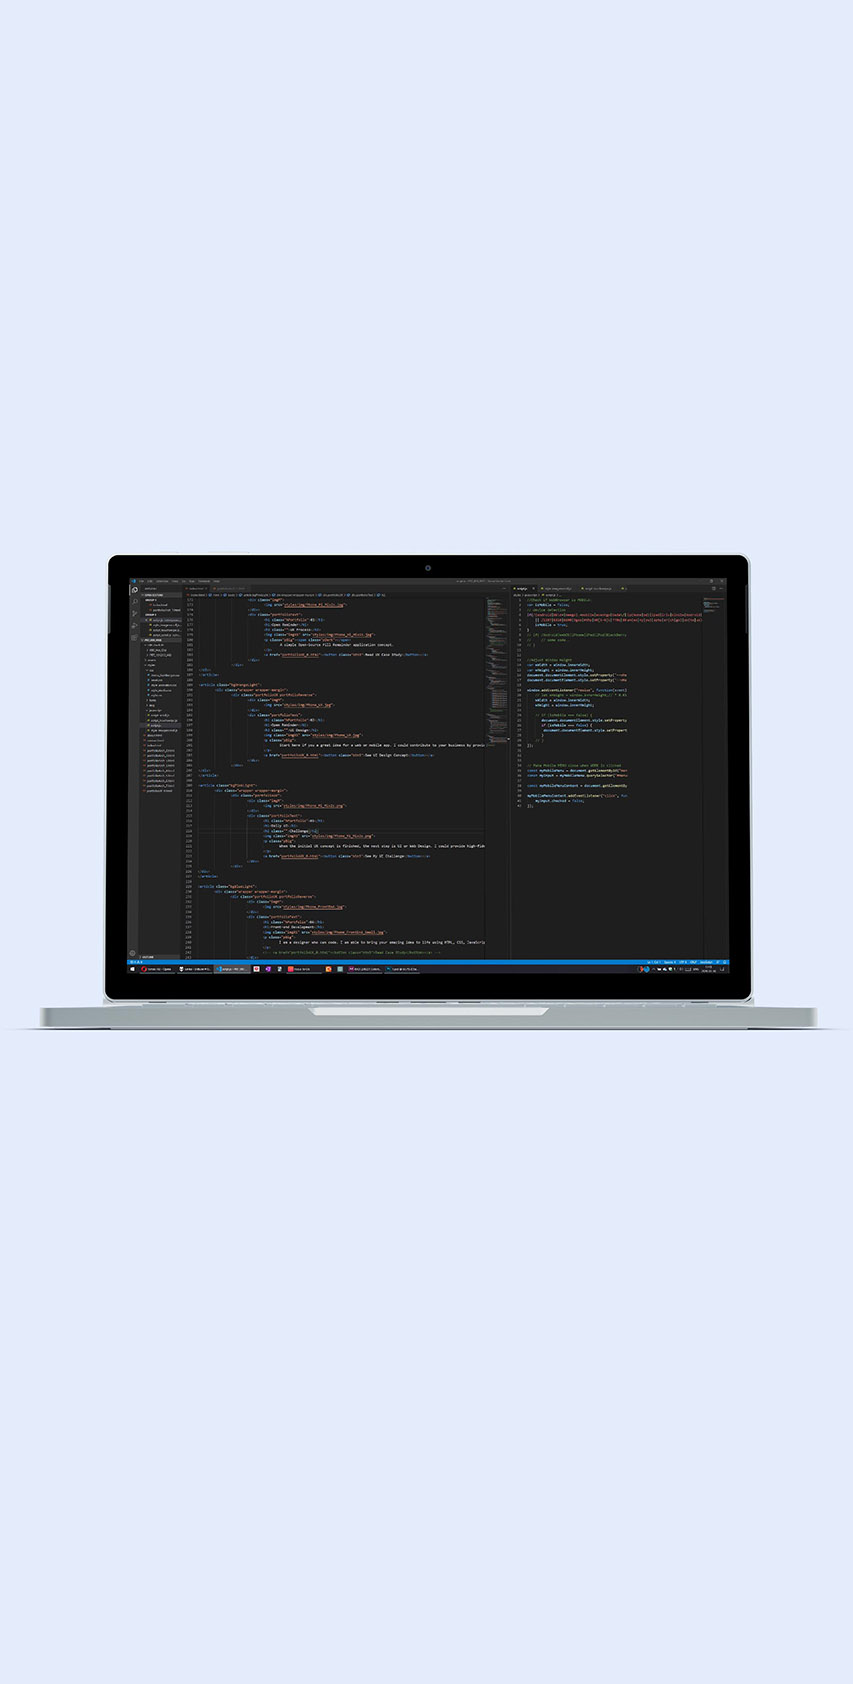
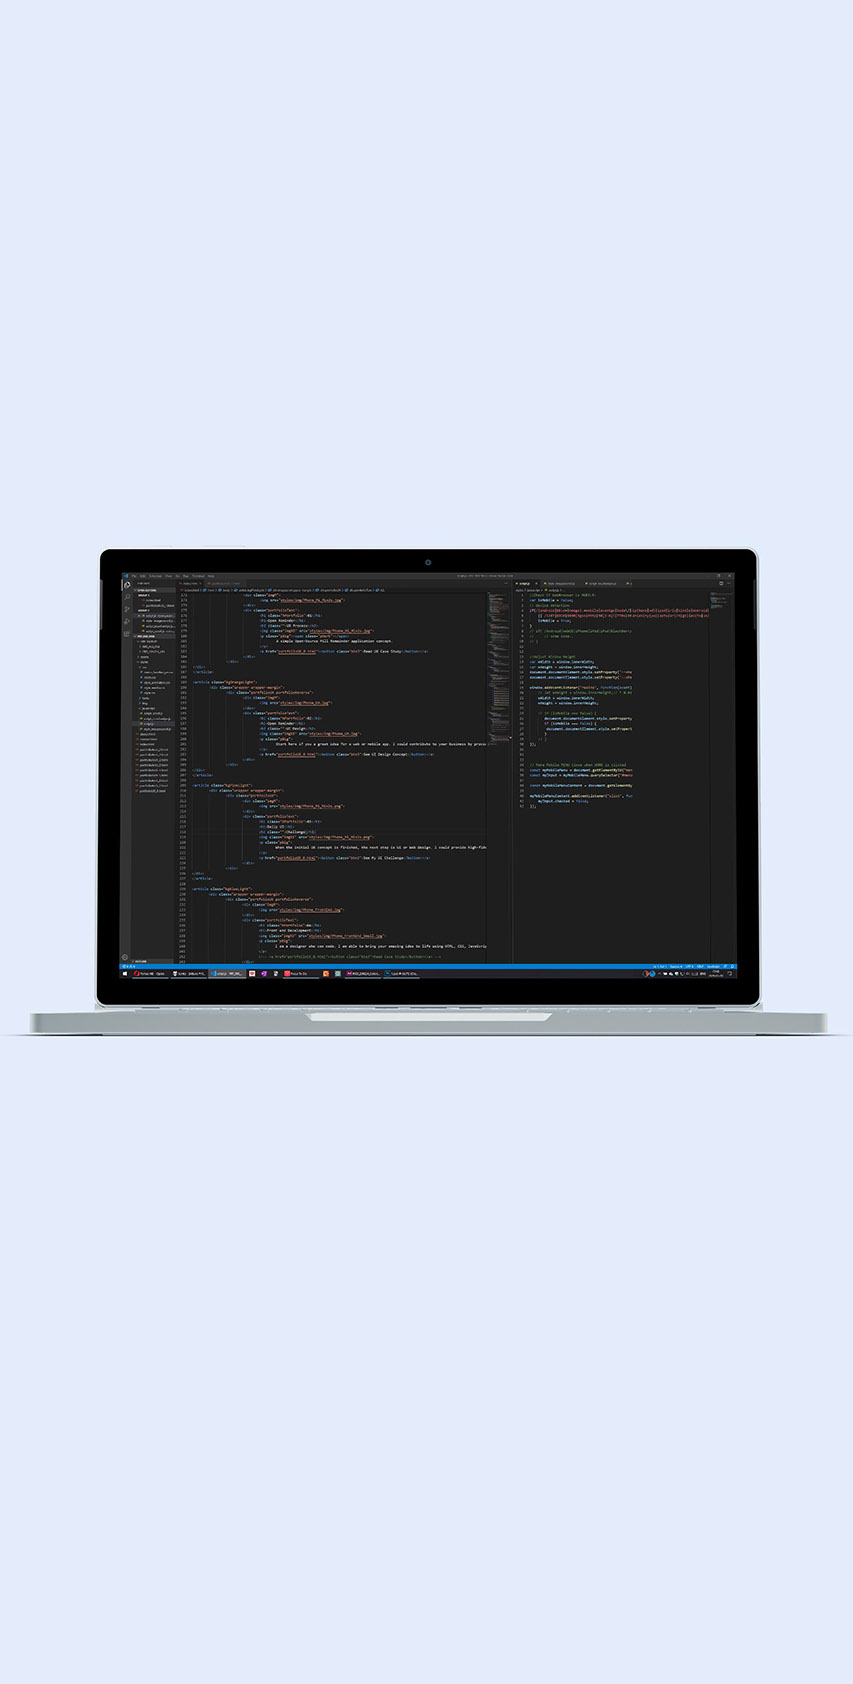
changing index page

Changed region(s): [[0.0305, 0.3088, 0.9754, 0.6176]]

diff --git a/index.html b/index.html
@@ -238,7 +238,7 @@
                                 <!-- <h2 class="">UI Design</h2> -->
                                 <img class="imgXS" src="styles/img/04_FrontEnd_Small.jpg">
                                 <p class="pBig">
-                                        I am a designer who can code. I am able to bring your amazing idea to life using HTML, CSS, JavaScript or integrate the web-page with popular CMS like Wordpress.
+                                        I am a designer who can code. I am able to bring your amazing idea to life using React, JavaScript, CSS, HTML or integrate the web-page with popular CMSs like Wordpress.
                                 </p>
                                 <!-- <a href="portfolioUX_0.html"><button class="btn3">Read Case Study</button></a> -->
                         </div>
